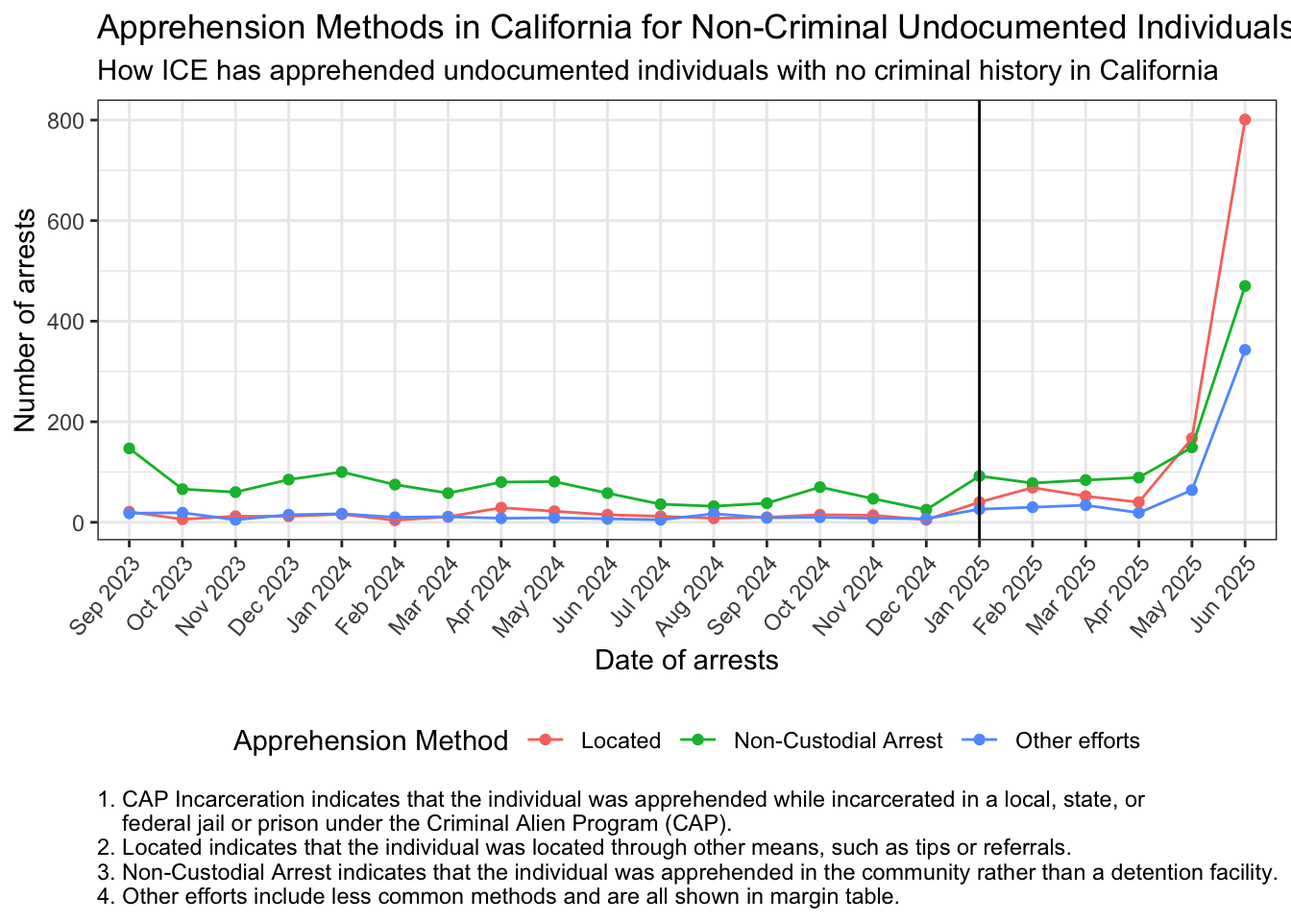
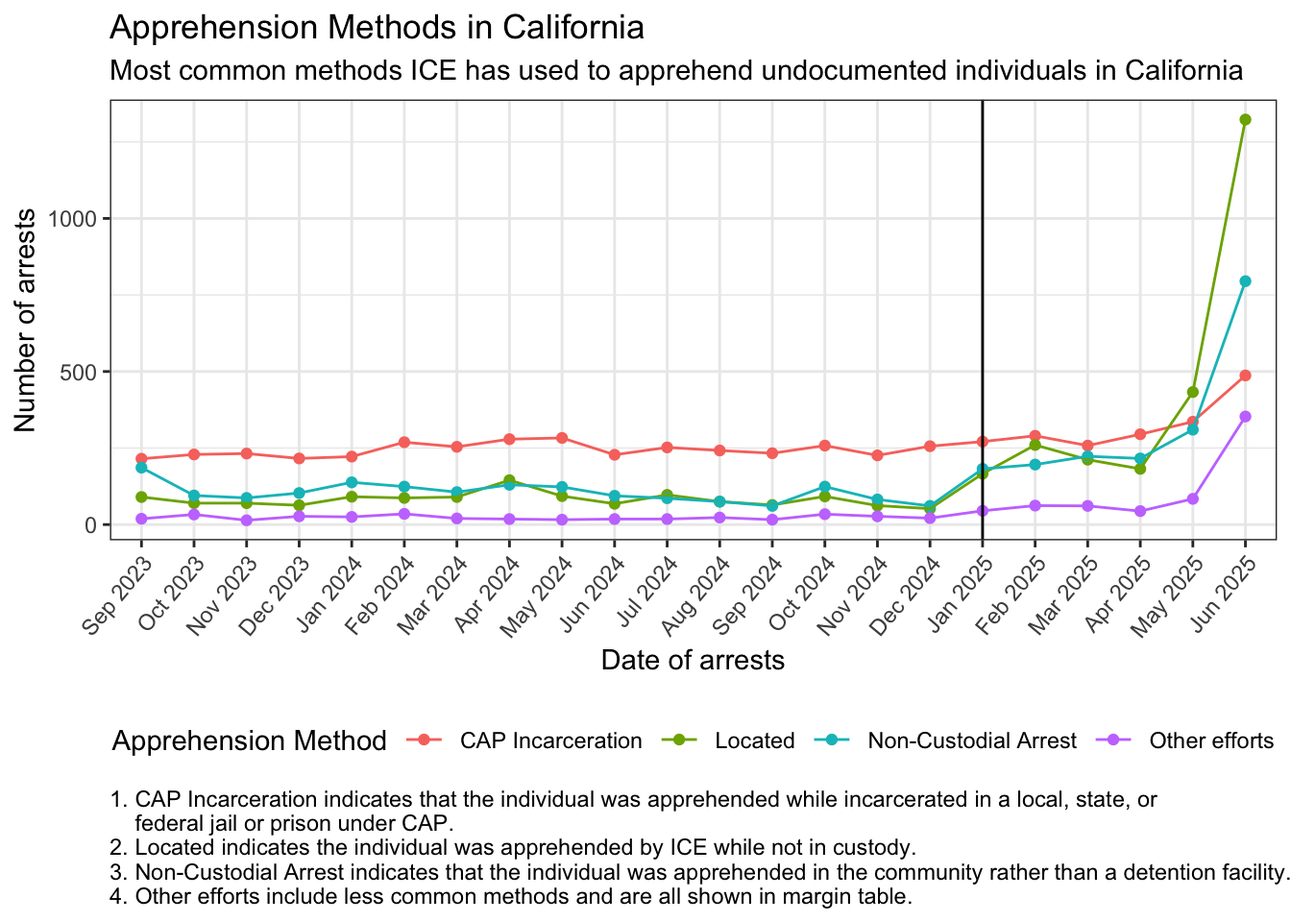
publishing website

diff --git a/docs/data-analysis.html b/docs/data-analysis.html
@@ -161,9 +161,11 @@ pre > code.sourceCode > span > a:first-child::before { text-decoration: underlin
   <li><a href="#data-visualization" id="toc-data-visualization" class="nav-link" data-scroll-target="#data-visualization">Data Visualization</a>
   <ul class="collapse">
   <li><a href="#criminality-of-arestees" id="toc-criminality-of-arestees" class="nav-link" data-scroll-target="#criminality-of-arestees">Criminality of Arestees</a></li>
-  <li><a href="#departure-destination-of-arrestees" id="toc-departure-destination-of-arrestees" class="nav-link" data-scroll-target="#departure-destination-of-arrestees">Departure destination of arrestees</a></li>
-  <li><a href="#methods-of-apprehension-in-california-for-non-criminal-undocumented-individuals" id="toc-methods-of-apprehension-in-california-for-non-criminal-undocumented-individuals" class="nav-link" data-scroll-target="#methods-of-apprehension-in-california-for-non-criminal-undocumented-individuals">Methods of Apprehension in California for Non-Criminal Undocumented Individuals</a></li>
+  <li><a href="#departure-destination-of-arrestees" id="toc-departure-destination-of-arrestees" class="nav-link" data-scroll-target="#departure-destination-of-arrestees">Departure Destination of Arrestees</a></li>
+  <li><a href="#methods-of-apprehension" id="toc-methods-of-apprehension" class="nav-link" data-scroll-target="#methods-of-apprehension">Methods of Apprehension</a></li>
+  <li><a href="#age-distribution-of-arestess" id="toc-age-distribution-of-arestess" class="nav-link" data-scroll-target="#age-distribution-of-arestess">Age Distribution of Arestess</a></li>
   </ul></li>
+  <li><a href="#conclusion" id="toc-conclusion" class="nav-link" data-scroll-target="#conclusion">Conclusion</a></li>
   <li><a href="#functions-used" id="toc-functions-used" class="nav-link" data-scroll-target="#functions-used">Functions Used</a></li>
   </ul>
 </nav>
@@ -192,7 +194,7 @@ pre > code.sourceCode > span > a:first-child::before { text-decoration: underlin
 
 <section id="introduction" class="level1">
 <h1>Introduction</h1>
-<p>In this analysis, we will use data pertaining to ICE Arrests from Sep.&nbsp;2023 to Jul.&nbsp;2025. The question I aim to answer is if recent arrests (January 2025 – present)target undocumented individuals with a criminal history, and how they compare to arrests from before January 2025. The target audience is the general public, with anyone interested in seeing how ICE is operating under the current presidential adminstration in comparison to the last one.</p>
+<p>In this analysis, I will use data pertaining to ICE Arrests from Sep.&nbsp;2023 to late Jul.&nbsp;2025. The question I aim to answer is if recent arrests (January 2025 – present)target undocumented individuals with a criminal history, and how they compare to arrests from before January 2025. The target audience is the general public, with anyone interested in seeing how ICE is operating under the current presidential adminstration in comparison to the last one.</p>
 <p>The data comes from <a href="https://deportationdata.org/data/ice.html">The Deportation Data Project</a> and its data dictionary can be found <a href="https://deportationdata.org/docs/ice/codebook.html">here</a>.</p>
 <div class="cell">
 <div class="cell-output-display">
@@ -263,7 +265,7 @@ pre > code.sourceCode > span > a:first-child::before { text-decoration: underlin
 <span id="cb2-48"><a href="#cb2-48" aria-hidden="true" tabindex="-1"></a>    <span class="fu">select</span>(</span>
 <span id="cb2-49"><a href="#cb2-49" aria-hidden="true" tabindex="-1"></a>        apprehension_date_my, apprehension_criminality, apprehension_state, apprehension_method, </span>
 <span id="cb2-50"><a href="#cb2-50" aria-hidden="true" tabindex="-1"></a>        citizenship_continent, departure_continent, departure_destination, </span>
-<span id="cb2-51"><a href="#cb2-51" aria-hidden="true" tabindex="-1"></a>        administration</span>
+<span id="cb2-51"><a href="#cb2-51" aria-hidden="true" tabindex="-1"></a>        administration, birth_year</span>
 <span id="cb2-52"><a href="#cb2-52" aria-hidden="true" tabindex="-1"></a>        )</span></code></pre></div><button title="Copy to Clipboard" class="code-copy-button"><i class="bi"></i></button></div>
 </div>
 <div class="callout callout-style-default callout-note callout-titled">
@@ -314,7 +316,7 @@ Note
 </div>
 </section>
 <section id="departure-destination-of-arrestees" class="level2">
-<h2 class="anchored" data-anchor-id="departure-destination-of-arrestees">Departure destination of arrestees</h2>
+<h2 class="anchored" data-anchor-id="departure-destination-of-arrestees">Departure Destination of Arrestees</h2>
 <p>I am interested in seeing where ICE arrestees are being deported under the two different administrations, particularly whether individuals deported to countries other than their country of origin are being sent to destinations within the same continent or not.</p>
 <p>Four individuals with citizenship from Yugoslavia were deported to other European countries since the nation no longer exists. The destinations were Serbia, North Macedonia, and Montenegro (two cases), all of which are part of what was once Yugoslavia. These cases were categorized under the “Europe” continent for this analysis and not under “Country of Origin”.</p>
 <div class="callout callout-style-default callout-note callout-titled">
@@ -447,18 +449,17 @@ Note
 </div>
 </div>
 </section>
-<section id="methods-of-apprehension-in-california-for-non-criminal-undocumented-individuals" class="level2 page-columns page-full">
-<h2 class="anchored" data-anchor-id="methods-of-apprehension-in-california-for-non-criminal-undocumented-individuals">Methods of Apprehension in California for Non-Criminal Undocumented Individuals</h2>
-<p>California has recently seen a surge in ICE arrests since January 2025. I am interested in seeing the different methods of apprehension used for undocumented individuals with no criminal history in California, and how these methods have changed over time.</p>
-<p>In California, the three most common methods of apprehension for non-criminal individuals are non-custodial arrests, efforts to locate individuals, and unspecified “other efforts.” The less common methods of apprehension were grouped together under “other efforts” for the purpose of visualization.</p>
+<section id="methods-of-apprehension" class="level2 page-columns page-full">
+<h2 class="anchored" data-anchor-id="methods-of-apprehension">Methods of Apprehension</h2>
+<p>California has recently seen a surge in ICE arrests since January 2025. I am interested in seeing the different methods of apprehension used in this state, and how these methods have changed over time.</p>
+<p>In California, the three most common methods of apprehension for undocumented individuals are efforts to locate individuals, non-custodial arrests, and the Criminal Alien Program (CAP). The next most common is an unspecified “other efforts,” which was grouped together with less common methods of apprehension for the purpose of visualization.</p>
 <div class="cell page-columns page-full">
 <div class="code-copy-outer-scaffold"><div class="sourceCode cell-code" id="cb6"><pre class="sourceCode r code-with-copy"><code class="sourceCode r"><span id="cb6-1"><a href="#cb6-1" aria-hidden="true" tabindex="-1"></a>arrests <span class="sc">|&gt;</span> </span>
-<span id="cb6-2"><a href="#cb6-2" aria-hidden="true" tabindex="-1"></a>    <span class="fu">filter</span>(apprehension_state <span class="sc">==</span> <span class="st">"CALIFORNIA"</span>,</span>
-<span id="cb6-3"><a href="#cb6-3" aria-hidden="true" tabindex="-1"></a>           apprehension_criminality <span class="sc">==</span> <span class="st">"3 Other Immigration Violator"</span>) <span class="sc">|&gt;</span> </span>
-<span id="cb6-4"><a href="#cb6-4" aria-hidden="true" tabindex="-1"></a>    <span class="fu">count</span>(apprehension_method, <span class="at">sort =</span> <span class="cn">TRUE</span>) <span class="sc">|&gt;</span> </span>
-<span id="cb6-5"><a href="#cb6-5" aria-hidden="true" tabindex="-1"></a>    <span class="fu">rename</span>(<span class="st">`</span><span class="at">Apprehension Method</span><span class="st">`</span> <span class="ot">=</span> apprehension_method,</span>
-<span id="cb6-6"><a href="#cb6-6" aria-hidden="true" tabindex="-1"></a>           <span class="at">Count =</span> n) <span class="sc">|&gt;</span></span>
-<span id="cb6-7"><a href="#cb6-7" aria-hidden="true" tabindex="-1"></a>    knitr<span class="sc">::</span><span class="fu">kable</span>()</span></code></pre></div><button title="Copy to Clipboard" class="code-copy-button"><i class="bi"></i></button></div>
+<span id="cb6-2"><a href="#cb6-2" aria-hidden="true" tabindex="-1"></a>    <span class="fu">filter</span>(apprehension_state <span class="sc">==</span> <span class="st">"CALIFORNIA"</span>) <span class="sc">|&gt;</span> </span>
+<span id="cb6-3"><a href="#cb6-3" aria-hidden="true" tabindex="-1"></a>    <span class="fu">count</span>(apprehension_method, <span class="at">sort =</span> <span class="cn">TRUE</span>) <span class="sc">|&gt;</span> </span>
+<span id="cb6-4"><a href="#cb6-4" aria-hidden="true" tabindex="-1"></a>    <span class="fu">rename</span>(<span class="st">`</span><span class="at">Apprehension Method</span><span class="st">`</span> <span class="ot">=</span> apprehension_method,</span>
+<span id="cb6-5"><a href="#cb6-5" aria-hidden="true" tabindex="-1"></a>           <span class="at">Count =</span> n) <span class="sc">|&gt;</span></span>
+<span id="cb6-6"><a href="#cb6-6" aria-hidden="true" tabindex="-1"></a>    knitr<span class="sc">::</span><span class="fu">kable</span>()</span></code></pre></div><button title="Copy to Clipboard" class="code-copy-button"><i class="bi"></i></button></div>
 
 <div class="no-row-height column-margin column-container"><div class="cell-output-display">
 <table class="caption-top table table-sm table-striped small">
@@ -470,52 +471,68 @@ Note
 </thead>
 <tbody>
 <tr class="odd">
-<td style="text-align: left;">Non-Custodial Arrest</td>
-<td style="text-align: right;">2020</td>
-</tr>
-<tr class="even">
 <td style="text-align: left;">Located</td>
-<td style="text-align: right;">1381</td>
-</tr>
-<tr class="odd">
-<td style="text-align: left;">Other efforts</td>
-<td style="text-align: right;">420</td>
+<td style="text-align: right;">3885</td>
 </tr>
 <tr class="even">
-<td style="text-align: left;">CAP Local Incarceration</td>
-<td style="text-align: right;">104</td>
+<td style="text-align: left;">Non-Custodial Arrest</td>
+<td style="text-align: right;">3597</td>
 </tr>
 <tr class="odd">
 <td style="text-align: left;">CAP Federal Incarceration</td>
-<td style="text-align: right;">44</td>
+<td style="text-align: right;">3374</td>
+</tr>
+<tr class="even">
+<td style="text-align: left;">CAP State Incarceration</td>
+<td style="text-align: right;">1365</td>
+</tr>
+<tr class="odd">
+<td style="text-align: left;">CAP Local Incarceration</td>
+<td style="text-align: right;">1092</td>
+</tr>
+<tr class="even">
+<td style="text-align: left;">Other efforts</td>
+<td style="text-align: right;">579</td>
+</tr>
+<tr class="odd">
+<td style="text-align: left;">Probation and Parole</td>
+<td style="text-align: right;">251</td>
 </tr>
 <tr class="even">
 <td style="text-align: left;">Patrol Border</td>
-<td style="text-align: right;">34</td>
+<td style="text-align: right;">45</td>
 </tr>
 <tr class="odd">
-<td style="text-align: left;">CAP State Incarceration</td>
-<td style="text-align: right;">23</td>
+<td style="text-align: left;">Other Agency (turned over to INS)</td>
+<td style="text-align: right;">37</td>
 </tr>
 <tr class="even">
-<td style="text-align: left;">Other Agency (turned over to INS)</td>
-<td style="text-align: right;">16</td>
+<td style="text-align: left;">Other Task Force</td>
+<td style="text-align: right;">26</td>
 </tr>
 <tr class="odd">
 <td style="text-align: left;">Worksite Enforcement</td>
-<td style="text-align: right;">13</td>
+<td style="text-align: right;">20</td>
+</tr>
+<tr class="even">
+<td style="text-align: left;">Law Enforcement Agency Response Unit</td>
+<td style="text-align: right;">12</td>
+</tr>
+<tr class="odd">
+<td style="text-align: left;">Anti-Smuggling</td>
+<td style="text-align: right;">10</td>
 </tr>
 <tr class="even">
 <td style="text-align: left;">Inspections</td>
-<td style="text-align: right;">9</td>
+<td style="text-align: right;">10</td>
 </tr>
 <tr class="odd">
-<td style="text-align: left;">Other Task Force</td>
-<td style="text-align: right;">9</td>
+<td style="text-align: left;">Organized Crime Drug Enforcement Task Force</td>
+<td style="text-align: right;">6</td>
 </tr>
 <tr class="even">
-<td style="text-align: left;">Anti-Smuggling</td>
-<td style="text-align: right;">6</td>
+<td style="text-align: left;">287(g) Program</td>
+<td style="text-align: right;">4</td>
 </tr>
 <tr class="odd">
 <td style="text-align: left;">ERO Reprocessed Arrest</td>
@@ -526,33 +543,29 @@ Note
 <td style="text-align: right;">3</td>
 </tr>
 <tr class="odd">
-<td style="text-align: left;">287(g) Program</td>
+<td style="text-align: left;">Criminal Alien Program</td>
 <td style="text-align: right;">2</td>
 </tr>
 <tr class="even">
-<td style="text-align: left;">Law Enforcement Agency Response Unit</td>
+<td style="text-align: left;">Patrol Interior</td>
 <td style="text-align: right;">2</td>
 </tr>
 <tr class="odd">
-<td style="text-align: left;">Patrol Interior</td>
-<td style="text-align: right;">1</td>
-</tr>
-<tr class="even">
-<td style="text-align: left;">Probation and Parole</td>
-<td style="text-align: right;">1</td>
+<td style="text-align: left;">Transportation Check Aircraft</td>
+<td style="text-align: right;">2</td>
 </tr>
 </tbody>
 </table>
 </div></div></div>
 <div class="cell">
 <div class="code-copy-outer-scaffold"><div class="sourceCode cell-code" id="cb7"><pre class="sourceCode r code-with-copy"><code class="sourceCode r"><span id="cb7-1"><a href="#cb7-1" aria-hidden="true" tabindex="-1"></a>arrests <span class="sc">|&gt;</span> </span>
-<span id="cb7-2"><a href="#cb7-2" aria-hidden="true" tabindex="-1"></a>    <span class="fu">mutate</span>(<span class="at">apprehension_method =</span> <span class="fu">case_when</span>(</span>
-<span id="cb7-3"><a href="#cb7-3" aria-hidden="true" tabindex="-1"></a>        <span class="fu">str_detect</span>(apprehension_method, <span class="st">"Non-Custodial Arrest"</span>) <span class="sc">~</span> <span class="st">"Non-Custodial Arrest"</span>,</span>
-<span id="cb7-4"><a href="#cb7-4" aria-hidden="true" tabindex="-1"></a>        apprehension_method <span class="sc">==</span> <span class="st">"Located"</span> <span class="sc">~</span> <span class="st">"Located"</span>,</span>
-<span id="cb7-5"><a href="#cb7-5" aria-hidden="true" tabindex="-1"></a>        <span class="cn">TRUE</span> <span class="sc">~</span> <span class="st">"Other efforts"</span>)) <span class="sc">|&gt;</span> </span>
-<span id="cb7-6"><a href="#cb7-6" aria-hidden="true" tabindex="-1"></a>    <span class="fu">filter</span>(</span>
-<span id="cb7-7"><a href="#cb7-7" aria-hidden="true" tabindex="-1"></a>        apprehension_state <span class="sc">%in%</span> <span class="fu">c</span>(<span class="st">"CALIFORNIA"</span>),</span>
-<span id="cb7-8"><a href="#cb7-8" aria-hidden="true" tabindex="-1"></a>        apprehension_criminality <span class="sc">==</span> <span class="st">"3 Other Immigration Violator"</span>) <span class="sc">|&gt;</span></span>
+<span id="cb7-2"><a href="#cb7-2" aria-hidden="true" tabindex="-1"></a>    <span class="fu">mutate</span>(</span>
+<span id="cb7-3"><a href="#cb7-3" aria-hidden="true" tabindex="-1"></a>        <span class="at">apprehension_method =</span> <span class="fu">case_when</span>(</span>
+<span id="cb7-4"><a href="#cb7-4" aria-hidden="true" tabindex="-1"></a>            <span class="fu">str_detect</span>(apprehension_method, <span class="st">"CAP"</span>) <span class="sc">~</span> <span class="st">"CAP Incarceration"</span>,</span>
+<span id="cb7-5"><a href="#cb7-5" aria-hidden="true" tabindex="-1"></a>            apprehension_method <span class="sc">==</span> <span class="st">"Non-Custodial Arrest"</span> <span class="sc">~</span> <span class="st">"Non-Custodial Arrest"</span>,</span>
+<span id="cb7-6"><a href="#cb7-6" aria-hidden="true" tabindex="-1"></a>            apprehension_method <span class="sc">==</span> <span class="st">"Located"</span> <span class="sc">~</span> <span class="st">"Located"</span>,</span>
+<span id="cb7-7"><a href="#cb7-7" aria-hidden="true" tabindex="-1"></a>            <span class="cn">TRUE</span> <span class="sc">~</span> <span class="st">"Other efforts"</span>)) <span class="sc">|&gt;</span> </span>
+<span id="cb7-8"><a href="#cb7-8" aria-hidden="true" tabindex="-1"></a>    <span class="fu">filter</span>(apprehension_state <span class="sc">==</span> <span class="st">"CALIFORNIA"</span>) <span class="sc">|&gt;</span></span>
 <span id="cb7-9"><a href="#cb7-9" aria-hidden="true" tabindex="-1"></a>    <span class="fu">group_by</span>(apprehension_date_my, apprehension_method) <span class="sc">|&gt;</span> </span>
 <span id="cb7-10"><a href="#cb7-10" aria-hidden="true" tabindex="-1"></a>    <span class="fu">summarise</span>(<span class="at">count =</span> <span class="fu">n</span>()) <span class="sc">|&gt;</span> </span>
 <span id="cb7-11"><a href="#cb7-11" aria-hidden="true" tabindex="-1"></a>    <span class="fu">ggplot</span>(<span class="fu">aes</span>(<span class="at">x =</span> apprehension_date_my, <span class="at">y =</span> count, </span>
@@ -564,9 +577,9 @@ Note
 <span id="cb7-17"><a href="#cb7-17" aria-hidden="true" tabindex="-1"></a>        <span class="at">axis.text.x =</span> <span class="fu">element_text</span>(<span class="at">angle =</span> <span class="dv">50</span>, <span class="at">hjust=</span><span class="dv">1</span>),</span>
 <span id="cb7-18"><a href="#cb7-18" aria-hidden="true" tabindex="-1"></a>        <span class="at">plot.caption =</span> <span class="fu">element_text</span>(<span class="at">hjust =</span> <span class="dv">0</span>),</span>
 <span id="cb7-19"><a href="#cb7-19" aria-hidden="true" tabindex="-1"></a>        <span class="at">legend.position =</span> <span class="st">"bottom"</span>) <span class="sc">+</span></span>
-<span id="cb7-20"><a href="#cb7-20" aria-hidden="true" tabindex="-1"></a>    <span class="fu">labs</span>(<span class="at">title =</span> <span class="st">"Apprehension Methods in California for Non-Criminal Undocumented Individuals"</span>,</span>
-<span id="cb7-21"><a href="#cb7-21" aria-hidden="true" tabindex="-1"></a>         <span class="at">subtitle =</span> <span class="st">"How ICE has apprehended undocumented individuals with no criminal history in California"</span>,</span>
-<span id="cb7-22"><a href="#cb7-22" aria-hidden="true" tabindex="-1"></a>         <span class="at">caption =</span> <span class="st">"1. CAP Incarceration indicates that the individual was apprehended while incarcerated in a local, state, or </span><span class="sc">\n</span><span class="st">    federal jail or prison under the Criminal Alien Program (CAP).</span><span class="sc">\n</span><span class="st">2. Located indicates that the individual was located through other means, such as tips or referrals.</span><span class="sc">\n</span><span class="st">3. Non-Custodial Arrest indicates that the individual was apprehended in the community rather than a detention facility.</span><span class="sc">\n</span><span class="st">4. Other efforts include less common methods and are all shown in margin table."</span>,</span>
+<span id="cb7-20"><a href="#cb7-20" aria-hidden="true" tabindex="-1"></a>    <span class="fu">labs</span>(<span class="at">title =</span> <span class="st">"Apprehension Methods in California"</span>,</span>
+<span id="cb7-21"><a href="#cb7-21" aria-hidden="true" tabindex="-1"></a>         <span class="at">subtitle =</span> <span class="st">"Most common methods ICE has used to apprehend undocumented individuals in California"</span>,</span>
+<span id="cb7-22"><a href="#cb7-22" aria-hidden="true" tabindex="-1"></a>         <span class="at">caption =</span> <span class="st">"1. CAP Incarceration indicates that the individual was apprehended while incarcerated in a local, state, or </span><span class="sc">\n</span><span class="st">    federal jail or prison under CAP.</span><span class="sc">\n</span><span class="st">2. Located indicates the individual was apprehended by ICE while not in custody.</span><span class="sc">\n</span><span class="st">3. Non-Custodial Arrest indicates that the individual was apprehended in the community rather than a detention facility.</span><span class="sc">\n</span><span class="st">4. Other efforts include less common methods and are all shown in margin table."</span>,</span>
 <span id="cb7-23"><a href="#cb7-23" aria-hidden="true" tabindex="-1"></a>         <span class="at">x =</span> <span class="st">"Date of arrests"</span>, </span>
 <span id="cb7-24"><a href="#cb7-24" aria-hidden="true" tabindex="-1"></a>         <span class="at">y =</span> <span class="st">"Number of arrests"</span>,</span>
 <span id="cb7-25"><a href="#cb7-25" aria-hidden="true" tabindex="-1"></a>         <span class="at">color =</span> <span class="st">"Apprehension Method"</span>) <span class="sc">+</span> </span>
@@ -583,9 +596,110 @@ using the `.groups` argument.</code></pre>
 </div>
 </div>
 </div>
-<p>Your analysis must include a .bib file, which you use to reference at least three unique citations. For example, it could be to a website or paper from where the original data came from or it could be to a paper describing a method you are using to analyze the data.</p>
-<p>You must summarize your analysis and/or results with a paragraph (4-6 sentences).</p>
+<div class="cell">
+<div class="code-copy-outer-scaffold"><div class="sourceCode cell-code" id="cb9"><pre class="sourceCode r code-with-copy"><code class="sourceCode r"><span id="cb9-1"><a href="#cb9-1" aria-hidden="true" tabindex="-1"></a>arrests <span class="sc">|&gt;</span> </span>
+<span id="cb9-2"><a href="#cb9-2" aria-hidden="true" tabindex="-1"></a>    <span class="fu">mutate</span>(</span>
+<span id="cb9-3"><a href="#cb9-3" aria-hidden="true" tabindex="-1"></a>        <span class="at">apprehension_method =</span> <span class="fu">case_when</span>(</span>
+<span id="cb9-4"><a href="#cb9-4" aria-hidden="true" tabindex="-1"></a>            apprehension_method <span class="sc">%in%</span> <span class="fu">c</span>(<span class="st">"Non-Custodial Arrest"</span>, <span class="st">"Located"</span>) <span class="sc">~</span> <span class="st">"Community"</span>,</span>
+<span id="cb9-5"><a href="#cb9-5" aria-hidden="true" tabindex="-1"></a>            <span class="cn">TRUE</span> <span class="sc">~</span> <span class="st">"Other"</span>)) <span class="sc">|&gt;</span> </span>
+<span id="cb9-6"><a href="#cb9-6" aria-hidden="true" tabindex="-1"></a>    <span class="fu">group_by</span>(apprehension_date_my, apprehension_method,apprehension_criminality) <span class="sc">|&gt;</span> </span>
+<span id="cb9-7"><a href="#cb9-7" aria-hidden="true" tabindex="-1"></a>    <span class="fu">summarise</span>(<span class="at">count =</span> <span class="fu">n</span>()) <span class="sc">|&gt;</span> </span>
+<span id="cb9-8"><a href="#cb9-8" aria-hidden="true" tabindex="-1"></a>    <span class="fu">ggplot</span>(</span>
+<span id="cb9-9"><a href="#cb9-9" aria-hidden="true" tabindex="-1"></a>        <span class="fu">aes</span>(<span class="at">x =</span> apprehension_date_my, <span class="at">y =</span> count,</span>
+<span id="cb9-10"><a href="#cb9-10" aria-hidden="true" tabindex="-1"></a>            <span class="at">color =</span> apprehension_criminality, <span class="at">linetype =</span> apprehension_method,</span>
+<span id="cb9-11"><a href="#cb9-11" aria-hidden="true" tabindex="-1"></a>            <span class="at">group =</span> <span class="fu">interaction</span>(apprehension_method, apprehension_criminality))) <span class="sc">+</span></span>
+<span id="cb9-12"><a href="#cb9-12" aria-hidden="true" tabindex="-1"></a>    <span class="fu">geom_point</span>() <span class="sc">+</span> </span>
+<span id="cb9-13"><a href="#cb9-13" aria-hidden="true" tabindex="-1"></a>    <span class="fu">geom_line</span>() <span class="sc">+</span> </span>
+<span id="cb9-14"><a href="#cb9-14" aria-hidden="true" tabindex="-1"></a>    <span class="fu">theme_bw</span>() <span class="sc">+</span> </span>
+<span id="cb9-15"><a href="#cb9-15" aria-hidden="true" tabindex="-1"></a>    <span class="fu">theme</span>(</span>
+<span id="cb9-16"><a href="#cb9-16" aria-hidden="true" tabindex="-1"></a>        <span class="at">axis.text.x =</span> <span class="fu">element_text</span>(<span class="at">angle =</span> <span class="dv">50</span>, <span class="at">hjust=</span><span class="dv">1</span>),</span>
+<span id="cb9-17"><a href="#cb9-17" aria-hidden="true" tabindex="-1"></a>        <span class="at">plot.caption =</span> <span class="fu">element_text</span>(<span class="at">hjust =</span> <span class="dv">0</span>),</span>
+<span id="cb9-18"><a href="#cb9-18" aria-hidden="true" tabindex="-1"></a>        <span class="at">legend.position =</span> <span class="st">"right"</span>) <span class="sc">+</span></span>
+<span id="cb9-19"><a href="#cb9-19" aria-hidden="true" tabindex="-1"></a>    <span class="fu">labs</span>(<span class="at">title =</span> <span class="st">"General Apprehension Methods in the USA and Criminality of Arrestees"</span>,</span>
+<span id="cb9-20"><a href="#cb9-20" aria-hidden="true" tabindex="-1"></a>         <span class="at">subtitle =</span> <span class="st">"The number of arrests in the community versus other methods by criminality of arrestees"</span>,</span>
+<span id="cb9-21"><a href="#cb9-21" aria-hidden="true" tabindex="-1"></a>         <span class="at">caption =</span> <span class="st">"1. Arrests in the community indicates apprehension via 'Located' method or 'non-custodial' arrests. </span><span class="sc">\n</span><span class="st">2. Other efforts include are all shown in margin table."</span>,</span>
+<span id="cb9-22"><a href="#cb9-22" aria-hidden="true" tabindex="-1"></a>         <span class="at">x =</span> <span class="st">"Date of arrests"</span>, </span>
+<span id="cb9-23"><a href="#cb9-23" aria-hidden="true" tabindex="-1"></a>         <span class="at">y =</span> <span class="st">"Number of arrests"</span>,</span>
+<span id="cb9-24"><a href="#cb9-24" aria-hidden="true" tabindex="-1"></a>         <span class="at">color =</span> <span class="st">"Criminality"</span>,</span>
+<span id="cb9-25"><a href="#cb9-25" aria-hidden="true" tabindex="-1"></a>         <span class="at">linetype =</span> <span class="st">"Apprehension Method"</span>) <span class="sc">+</span> </span>
+<span id="cb9-26"><a href="#cb9-26" aria-hidden="true" tabindex="-1"></a>    <span class="fu">geom_vline</span>(<span class="at">xintercept =</span> <span class="st">"Jan 2025"</span>)</span></code></pre></div><button title="Copy to Clipboard" class="code-copy-button"><i class="bi"></i></button></div>
+<div class="cell-output cell-output-stderr">
+<pre><code>`summarise()` has grouped output by 'apprehension_date_my',
+'apprehension_method'. You can override using the `.groups` argument.</code></pre>
+</div>
+<div class="cell-output-display">
+<div>
+<figure class="figure">
+<p><img src="data-analysis_files/figure-html/unnamed-chunk-15-1.png" class="img-fluid figure-img" width="672"></p>
+</figure>
+</div>
+</div>
+</div>
 </section>
+<section id="age-distribution-of-arestess" class="level2">
+<h2 class="anchored" data-anchor-id="age-distribution-of-arestess">Age Distribution of Arestess</h2>
+<div class="cell">
+<div class="code-copy-outer-scaffold"><div class="sourceCode cell-code" id="cb11"><pre class="sourceCode r code-with-copy"><code class="sourceCode r"><span id="cb11-1"><a href="#cb11-1" aria-hidden="true" tabindex="-1"></a><span class="co"># | column: margin</span></span>
+<span id="cb11-2"><a href="#cb11-2" aria-hidden="true" tabindex="-1"></a>arrests <span class="sc">|&gt;</span> </span>
+<span id="cb11-3"><a href="#cb11-3" aria-hidden="true" tabindex="-1"></a>    <span class="fu">filter</span>(birth_year<span class="sc">&gt;=</span><span class="dv">2000</span>) <span class="sc">|&gt;</span> </span>
+<span id="cb11-4"><a href="#cb11-4" aria-hidden="true" tabindex="-1"></a>    <span class="fu">mutate</span>(<span class="at">relative_age =</span> <span class="dv">2025</span> <span class="sc">-</span> birth_year) <span class="sc">|&gt;</span> </span>
+<span id="cb11-5"><a href="#cb11-5" aria-hidden="true" tabindex="-1"></a>    <span class="fu">rename</span>(<span class="at">Administration =</span> administration) <span class="sc">|&gt;</span></span>
+<span id="cb11-6"><a href="#cb11-6" aria-hidden="true" tabindex="-1"></a>    <span class="fu">group_by</span>(Administration) <span class="sc">|&gt;</span> </span>
+<span id="cb11-7"><a href="#cb11-7" aria-hidden="true" tabindex="-1"></a>    <span class="fu">summarise</span>(<span class="st">`</span><span class="at">Median Age</span><span class="st">`</span> <span class="ot">=</span> <span class="fu">median</span>(relative_age)) <span class="sc">|&gt;</span> </span>
+<span id="cb11-8"><a href="#cb11-8" aria-hidden="true" tabindex="-1"></a>    knitr<span class="sc">::</span><span class="fu">kable</span>()</span></code></pre></div><button title="Copy to Clipboard" class="code-copy-button"><i class="bi"></i></button></div>
+<div class="cell-output-display">
+<table class="caption-top table table-sm table-striped small">
+<thead>
+<tr class="header">
+<th style="text-align: left;">Administration</th>
+<th style="text-align: right;">Median Age</th>
+</tr>
+</thead>
+<tbody>
+<tr class="odd">
+<td style="text-align: left;">Biden</td>
+<td style="text-align: right;">22</td>
+</tr>
+<tr class="even">
+<td style="text-align: left;">Trump</td>
+<td style="text-align: right;">23</td>
+</tr>
+</tbody>
+</table>
+</div>
+</div>
+<div class="cell">
+<div class="code-copy-outer-scaffold"><div class="sourceCode cell-code" id="cb12"><pre class="sourceCode r code-with-copy"><code class="sourceCode r"><span id="cb12-1"><a href="#cb12-1" aria-hidden="true" tabindex="-1"></a>arrests <span class="sc">|&gt;</span> </span>
+<span id="cb12-2"><a href="#cb12-2" aria-hidden="true" tabindex="-1"></a>    <span class="fu">filter</span>(birth_year <span class="sc">&gt;=</span> <span class="dv">2000</span>) <span class="sc">|&gt;</span> </span>
+<span id="cb12-3"><a href="#cb12-3" aria-hidden="true" tabindex="-1"></a>    <span class="fu">mutate</span>(</span>
+<span id="cb12-4"><a href="#cb12-4" aria-hidden="true" tabindex="-1"></a>        <span class="at">relative_age =</span> <span class="dv">2025</span> <span class="sc">-</span> birth_year,</span>
+<span id="cb12-5"><a href="#cb12-5" aria-hidden="true" tabindex="-1"></a>        <span class="at">administration =</span> <span class="fu">factor</span>(administration, <span class="at">levels =</span> <span class="fu">c</span>(<span class="st">"Trump"</span>, <span class="st">"Biden"</span>))) <span class="sc">|&gt;</span></span>
+<span id="cb12-6"><a href="#cb12-6" aria-hidden="true" tabindex="-1"></a>    <span class="fu">ggplot</span>(<span class="fu">aes</span>(<span class="at">x =</span> relative_age, <span class="at">y =</span> administration, <span class="at">fill =</span> administration)) <span class="sc">+</span></span>
+<span id="cb12-7"><a href="#cb12-7" aria-hidden="true" tabindex="-1"></a>    <span class="fu">geom_violin</span>(<span class="at">alpha =</span> <span class="fl">0.3</span>) <span class="sc">+</span></span>
+<span id="cb12-8"><a href="#cb12-8" aria-hidden="true" tabindex="-1"></a>    <span class="fu">geom_boxplot</span>(<span class="at">width =</span> <span class="fl">0.15</span>) <span class="sc">+</span></span>
+<span id="cb12-9"><a href="#cb12-9" aria-hidden="true" tabindex="-1"></a>    <span class="fu">theme_bw</span>() <span class="sc">+</span></span>
+<span id="cb12-10"><a href="#cb12-10" aria-hidden="true" tabindex="-1"></a>    <span class="fu">theme</span>(<span class="at">legend.position =</span> <span class="st">"none"</span>) <span class="sc">+</span></span>
+<span id="cb12-11"><a href="#cb12-11" aria-hidden="true" tabindex="-1"></a>    <span class="fu">labs</span>(<span class="at">title =</span> <span class="st">"Distribution of Ages by Administration"</span>,</span>
+<span id="cb12-12"><a href="#cb12-12" aria-hidden="true" tabindex="-1"></a>         <span class="at">x =</span> <span class="st">"Age"</span>,</span>
+<span id="cb12-13"><a href="#cb12-13" aria-hidden="true" tabindex="-1"></a>         <span class="at">y =</span> <span class="st">"Administration"</span></span>
+<span id="cb12-14"><a href="#cb12-14" aria-hidden="true" tabindex="-1"></a>        )</span></code></pre></div><button title="Copy to Clipboard" class="code-copy-button"><i class="bi"></i></button></div>
+<div class="cell-output-display">
+<div>
+<figure class="figure">
+<p><img src="data-analysis_files/figure-html/unnamed-chunk-17-1.png" class="img-fluid figure-img" width="672"></p>
+</figure>
+</div>
+</div>
+</div>
+</section>
+</section>
+<section id="conclusion" class="level1">
+<h1>Conclusion</h1>
+<p>Since January 2025, the number of ICE arrests has notably increased across the U.S. There has been a shift in the criminality of arrestees, with a larger number of individuals with no criminal history being more targeted compared to previous periods. The number of arrests of individuals with criminal convictions or pending charges has remained relatively stable within each administration.</p>
+<p>In the news, reports have highlighted cases of people being deported to countries other than their own under the current administration. Across both administrations, I saw that the majority of arrestees are still being deported to their country of origin, and there is no visible difference. When examining the proportions of individuals deported to other destinations, there is a 1.7% difference between the two administrations (Biden: 1.5%, Trump: 3.2%).</p>
+<p>News reports have also highlighted an increase in arrests in California. When examining the methods of apprehension used in the state, there has been a noticeable rise in non-custodial arrests and those using the “Located” method since January 2025. Historically, since September 2023, ICE primarily relied on CAP incarceration to apprehend undocumented individuals in California, but this changed in May 2025.</p>
+<p>I then decided to examine apprehension methods across the USA. According to the Deportation Data Project, the terms “Located” and “Non-Custodial Arrest” refer to arrests in the community, such as raids. I am interested in analyzing how these community-based apprehension methods have been used, particularly with respect to the criminality of the arrestees. Since January 2025, community-based apprehensions of individuals with no criminal history have increased drastically, while other methods have remained relatively stable within the current administration. In June 2025, ICE’s use of these community-based methods to apprehend non-criminal individuals surpassed all other combinations of apprehension method and criminality.</p>
+<p>Finally, I examined differences in the age distribution of arrestees under the two administrations, focusing on younger individuals. Among arrestees under 25, there does not appear to be a noticeable difference in the distribution between administrations. The median age for the Biden administration is slightly lower at 22 years, compared to 23 years for the Trump administration.</p>
 </section>
 <section id="functions-used" class="level1">
 <h1>Functions Used</h1>

diff --git a/docs/about.html b/docs/about.html
@@ -120,7 +120,7 @@ ul.task-list li input[type="checkbox"] {
     <h2 id="toc-title">On this page</h2>
    
   <ul>
-  <li><a href="#educational-background" id="toc-educational-background" class="nav-link active" data-scroll-target="#educational-background">Educational background</a></li>
+  <li><a href="#education" id="toc-education" class="nav-link active" data-scroll-target="#education">Education</a></li>
   <li><a href="#research-interests" id="toc-research-interests" class="nav-link" data-scroll-target="#research-interests">Research interests</a></li>
   </ul>
 </nav>
@@ -147,9 +147,10 @@ ul.task-list li input[type="checkbox"] {
 </header>
 
 
-<section id="educational-background" class="level2">
-<h2 class="anchored" data-anchor-id="educational-background">Educational background</h2>
-<p>I graduated from the University of Georgia in May 2025 with my B.S. in Statistics and started my program here in August 2025.</p>
+<section id="education" class="level2">
+<h2 class="anchored" data-anchor-id="education">Education</h2>
+<p>, <em>Baltimore, MD</em> Sc.M. in Biostatistics, <em>Expected: May 2027</em></p>
+<p>, <em>Athens, GA</em> B.S. in Statistics and Minor in Public Health, <em>May 2025</em></p>
 </section>
 <section id="research-interests" class="level2">
 <h2 class="anchored" data-anchor-id="research-interests">Research interests</h2>
